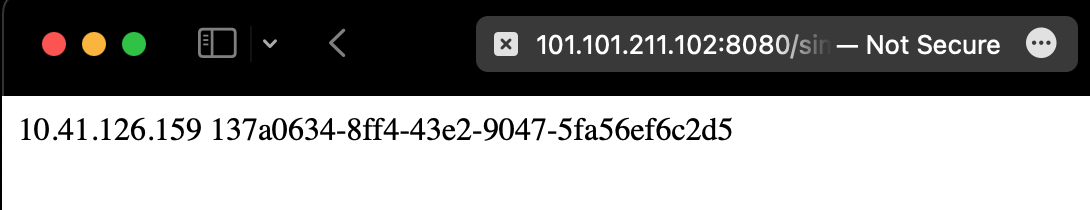
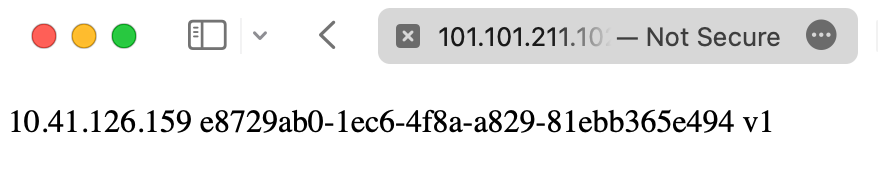
NCloud LB&SourcePipeline 1번째 글 추가하였다. spring 에서 서버 정보를 출력할 때 version 도 출력하도록 추가하였다. 이에 ncloud server 구축 1의 이미지도 수정하였다.

diff --git a/_docs/ncloud-sourcepipeline/2023-06-18-setup-egov.md b/_docs/ncloud-sourcepipeline/2023-06-18-setup-egov.md
@@ -1,0 +1,103 @@
+---
+title: eGov 프로젝트 구축하기
+layout: doc
+subtitle: 내부 ip 와 버전을 출력하는 간단한 프로젝트를 구축하기
+author: sunshine@ptokos.com
+tags: [dbdt]
+comments: true
+---
+
+## 목표
+`내부 아이피` `UUID` `버전` 을 출력하도록 한다.
+
+![1-1.png](/assets/img/ncloud-sourcepipeline/1-1.png)
+
+
+
+## 만들기
+### eGov 이란
+우선 간단하게 [전자정부프레임워크(eGov)](https://www.egovframe.go.kr/home/main.do) 을 설명하고 진행하겠다.
+
+![1-2.png](/assets/img/ncloud-sourcepipeline/1-2.png)
+
+스프링 프레임워크는 하나의 프로젝트로 구성된 것이 아니라 여러개의 모듈로 구성이 되어있다.
+필요에 따라서 Spring 모듈을 선택 및 추가하여 사용할 수 있다.
+
+![spring_architecture.png](https://www.tutorialspoint.com/spring/images/spring_architecture.png)
+
+전자정부프레임워크는 스프링 프레임워크 기반으로 만들어진 프레임워크이다. 
+차이점이라고 한다면 전자정부프레임워크에서 공통 컴포넌트를 제공하여 사용할 수 있다는 것이다.
+공통된 UI 컴포넌트를 제공하기도하지만 보안, 로그인, 권한, 통계, 메일, SMS, 파일처리 등의 공통된 기능을 제공한다. 
+
+아래는 [전자정부프레임워크 4.1 일반로그인 가이드](https://www.egovframe.go.kr/wiki/doku.php?id=egovframework:com:v4.1:uat:일반로그인) 중 일부 화면이다.
+
+![1-3.png](/assets/img/ncloud-sourcepipeline/1-3.png)
+
+egovframework.com.~ 처럼 전자정부프레임워크에서 제공하는 컴포넌트가 있다. 가이드를 보면 DAO 관련해서 필수적으로 상속을 받아야하는 클래스가 있는 등 여러가지의 가이드가 있다.
+더 자세히 다루기에는 클라우드를 중점인 글이기에 무리가 있어보인다. 이제 프로젝트를 구성해보겠다.
+
+### Egov 프로젝트 초기 셋팅
+[전자정부프레임워크 다운로드](https://www.egovframe.go.kr/home/sub.do?menuNo=4)에 접속해서 필요한 버전을 다운로드 받는다.
+다운로드 된 폴더 안에 이클립스를 확인할 수 있는데 이를 열어준다. 그 후 프로젝트를 새로 만들 때 eGovFrame Boot Web Project 로 생성한다.
+
+![1-4.png](/assets/img/ncloud-sourcepipeline/1-4.png)
+
+이름에서 유추할 수 있듯이 eGovFrame Boot Web Project 는 Spring Boot 기반으로 만들어진 프로젝트이다.
+
+### 정보 반환하는 컨트롤러 만들기
+필자는 src/main/java/egovframework/sample 패키지를 만들고 **SimpleInfoController.java** 파일을 추가하였다.
+그 후 코드를 추가해준다.
+
+![1-5.png](/assets/img/ncloud-sourcepipeline/1-5.png)
+
+
+```java
+package egovframework.sample;
+
+import org.springframework.web.bind.annotation.GetMapping;
+import org.springframework.web.bind.annotation.RestController;
+
+import java.net.InetAddress;
+import java.util.UUID;
+
+@RestController
+public class SimpleInfoController {
+    private final UUID uuid = UUID.randomUUID();
+    private final String v = "v1";
+
+    @GetMapping("/simple_info.do")
+    public String simpleInfo() throws Exception {
+        String ip = InetAddress.getLocalHost().getHostAddress();
+        return ip + " " + uuid + " " + v;
+    }
+}
+```
+
+코드는 매우 간단하다. **/simple_info.do** 에 접속하면 내부 아이피, UUID, 버전을 반환한다.
+내부 아이피는 서버 2대에 배포했을 때 어떤 서버인지 알기위함이다. UUID 의 경우는 서버가 껐다 켜지면 새로운 UUID 가 생성될 것이다.
+그러기에 UUID 가 달라진다는 것은 서버가 껐다 켜졌다는 것을 알 수 있다. 버전은 서버가 어떤 버전인지 알기 위함이다.
+
+필자의 경우는 프로젝트 생성만 전자정부프레임워크가 제공하는 이클립스를 사용했다. 그 뒤에 작업은 IntelliJ 를 사용했다.
+maven package 를 실행하면 target 폴더 안에 *.jar 파일이 생성이 된다.
+
+![1-6.png](/assets/img/ncloud-sourcepipeline/1-6.png)
+
+### jar 파일 실행하기
+jar 파일을 실행하면 서버 실행 로그가 출력이 되는 것을 확인할 수 있다.
+
+```bash
+java -jar sample_webapp.jar
+```
+
+
+
+
+
+
+
+
+
+
+
+
+
